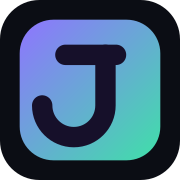
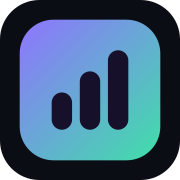
Fix ÖPPNA count and rebrand to "Betting Översikt"
Two changes made together this session.

Fix the ÖPPNA bankroll-strip count
- BankrollStrip read data.openBets.length, but /api/metrics slices that list
  to the 25 soonest pending bets for the dashboard ticker, so the count stuck
  at 25 once there were more than 25 open (Jonatan currently has 45). It now
  reads openRisk.bets, which counts every pending bet. NETTO and EXPONERAT
  were already correct — they come from the un-capped aggregates.

Rebrand "Betting Journal" -> "Betting Översikt"
- Renamed across all seven surfaces: tab title + description (layout), PWA
  name/short_name/description (manifest), top-nav brand, mobile "Mer" sheet,
  login and register screens, the per-user dashboard header, and the README
  headings.
- New logo: app/icon.svg drops the "J" for three ascending bars in the same
  gradient. The same shape is a BrandMark component (icons.tsx) used in the
  top-nav mark and the login/register logo tiles, and the manifest/apple PNGs
  were regenerated from the SVG with npm run icons.

Changed region(s): [[0.1667, 0.2222, 0.7222, 0.8333]]

diff --git a/components/Shell.tsx b/components/Shell.tsx
@@ -3,7 +3,7 @@
 import Link from "next/link";
 import { usePathname } from "next/navigation";
 import { useEffect, useState } from "react";
-import { I, IC } from "./icons";
+import { I, IC, BrandMark } from "./icons";
 import type { LucideIcon } from "lucide-react";
 import { GlobalActions } from "./GlobalActions";
 import { useMetrics } from "@/lib/useData";
@@ -40,7 +40,9 @@ function BankrollStrip() {
   const profitKr = (data.metrics?.profitUnits ?? 0) * unit;
   const risk = data.openRisk;
   const openKr = risk ? risk.stakeUnits * unit : 0;
-  const openCount = data.openBets?.length ?? 0;
+  // The count comes from openRisk, not openBets.length: /api/metrics caps that
+  // list at the 25 soonest bets for the dashboard ticker.
+  const openCount = risk?.bets ?? 0;
 
   return (
     <div className="ap-bankroll" title="Realiserat resultat, insats i öppna spel och antal öppna spel">
@@ -81,16 +83,16 @@ export function TopNav({ username }: { username?: string }) {
   return (
     <header className="ap-topnav">
       <div className="ap-topnav-inner">
-        <Link href="/" className="ap-brand" aria-label="Översikt">
+        <Link href="/" className="ap-brand" aria-label="Betting Översikt">
           <span className="mark" aria-hidden="true">
-            <I p={IC.dashboard} size={19} />
+            <BrandMark />
             <span className="pulse">
               <i />
               <b />
             </span>
           </span>
           <span className="name">
-            Betting<em>Journal</em>
+            Betting <em>Översikt</em>
           </span>
         </Link>
         <nav className="ap-nav">
@@ -142,7 +144,7 @@ export function MobileNav() {
           <div className="ap-more-sheet" role="dialog" aria-modal="true" aria-label="Fler sidor" onClick={(e) => e.stopPropagation()}>
             <div className="ap-more-sheet-head">
               <div>
-                <span className="ap-label">Betting Journal</span>
+                <span className="ap-label">Betting Översikt</span>
                 <div className="ap-card-title" style={{ marginTop: 4 }}>Fler sidor</div>
               </div>
               <button className="ap-close" onClick={() => setMoreOpen(false)} aria-label="Stäng meny">

diff --git a/app/register/page.tsx b/app/register/page.tsx
@@ -2,6 +2,7 @@
 
 import { useState } from "react";
 import Link from "next/link";
+import { BrandMark } from "@/components/icons";
 
 // Standalone registration screen (outside the (app) layout group, like /login).
 // Registration is gated by an invite code so strangers can't sign up on the
@@ -45,10 +46,12 @@ export default function RegisterPage() {
     <div className="ap-login">
       <form className="ap-login-card" onSubmit={submit}>
         <div className="ap-login-logo">
-          <div className="mark">J</div>
+          <div className="mark">
+            <BrandMark size={26} />
+          </div>
         </div>
         <h1 className="ap-login-title">Skapa konto</h1>
-        <p className="ap-login-sub">Tracka dina egna bets i journalen</p>
+        <p className="ap-login-sub">Tracka dina egna bets i översikten</p>
 
         <input
           className="ap-input"

diff --git a/components/icons.tsx b/components/icons.tsx
@@ -68,6 +68,23 @@ export function I({ p: Icon, size = 17 }: { p: LucideIcon; size?: number }) {
   return <Icon size={size} strokeWidth={1.8} absoluteStrokeWidth />;
 }
 
+/**
+ * The app logo glyph: three ascending bars, the same shape as app/icon.svg and
+ * therefore the PWA icons. Lives outside IC so it never gets picked up as a
+ * plain UI icon somewhere.
+ */
+export function BrandMark({ size = 19 }: { size?: number }) {
+  return (
+    <svg width={size} height={size} viewBox="0 0 24 24" fill="none" aria-hidden="true">
+      <g stroke="currentColor" strokeWidth={3.2} strokeLinecap="round">
+        <path d="M6.5 17.3V14.3" />
+        <path d="M12 17.3V10.7" />
+        <path d="M17.5 17.3V6.7" />
+      </g>
+    </svg>
+  );
+}
+
 export const IC = {
   // navigation
   dashboard: LayoutDashboard,

diff --git a/app/login/page.tsx b/app/login/page.tsx
@@ -2,6 +2,7 @@
 
 import { useState } from "react";
 import Link from "next/link";
+import { BrandMark } from "@/components/icons";
 
 export default function LoginPage() {
   const [username, setUsername] = useState("");
@@ -38,9 +39,11 @@ export default function LoginPage() {
     <div className="ap-login">
       <form className="ap-login-card" onSubmit={submit}>
         <div className="ap-login-logo">
-          <div className="mark">J</div>
+          <div className="mark">
+            <BrandMark size={26} />
+          </div>
         </div>
-        <h1 className="ap-login-title">Betting Journal</h1>
+        <h1 className="ap-login-title">Betting Översikt</h1>
         <p className="ap-login-sub">Logga in för att fortsätta</p>
 
         <input

diff --git a/app/(app)/page.tsx b/app/(app)/page.tsx
@@ -115,11 +115,11 @@ export default function OverviewPage() {
   const monthProfitU = (data?.byMonth ?? []).find((mo) => mo.month === curYM)?.profitUnits ?? 0;
   const yearProfitU = (data?.byYear ?? []).find((y) => y.key === String(now.getFullYear()))?.profitUnits ?? 0;
 
-  // Per-user header: "Jonatans Betting Journal" for jonatan, etc.
+  // Per-user header: "Jonatans Betting Översikt" for jonatan, etc.
   const username = data?.username;
   const title = username
-    ? `${username[0].toUpperCase() + username.slice(1)}s Betting Journal`
-    : "Betting Journal";
+    ? `${username[0].toUpperCase() + username.slice(1)}s Betting Översikt`
+    : "Betting Översikt";
 
   return (
     <div className="ap-dashboard">

diff --git a/app/layout.tsx b/app/layout.tsx
@@ -3,12 +3,12 @@ import "./globals.css";
 import { ThemeProvider } from "@/components/ThemeProvider";
 
 export const metadata: Metadata = {
-  title: "Betting Journal",
-  description: "Personlig betting-journal — bets, ROI och form, med auto-rättning från kontoutdrag.",
+  title: "Betting Översikt",
+  description: "Personlig betting-översikt — bets, ROI och form, med auto-rättning från kontoutdrag.",
   manifest: "/manifest.webmanifest",
   appleWebApp: {
     capable: true,
-    title: "Journal",
+    title: "Översikt",
     statusBarStyle: "black-translucent",
   },
 };

diff --git a/app/manifest.ts b/app/manifest.ts
@@ -4,9 +4,9 @@ import type { MetadataRoute } from "next";
 // home screen ("Lägg till på hemskärmen") so it launches like a native app.
 export default function manifest(): MetadataRoute.Manifest {
   return {
-    name: "Betting Journal",
-    short_name: "Journal",
-    description: "Personlig betting-journal — bets, ROI och form.",
+    name: "Betting Översikt",
+    short_name: "Översikt",
+    description: "Personlig betting-översikt — bets, ROI och form.",
     lang: "sv",
     start_url: "/",
     display: "standalone",

diff --git a/README.md b/README.md
@@ -1,4 +1,4 @@
-# 🎯 Betting Journal
+# 🎯 Betting Översikt
 
 > A local-first sports betting journal. Log bets in **units**, track **ROI** and
 > **bankroll** over time, and **auto-settle** results from a bet365 account statement
@@ -179,7 +179,7 @@ fun, seek help (in Sweden: [Stödlinjen](https://www.stodlinjen.se/), 020-81 91 
 
 <br>
 
-## 🎯 Betting Journal
+## 🎯 Betting Översikt
 
 En **lokal** betting-journal. Logga bets i **units** med decimalodds, följ **ROI** och
 **bankrulle** över tid, och **auto-rätta** resultat från ett bet365-kontoutdrag eller
